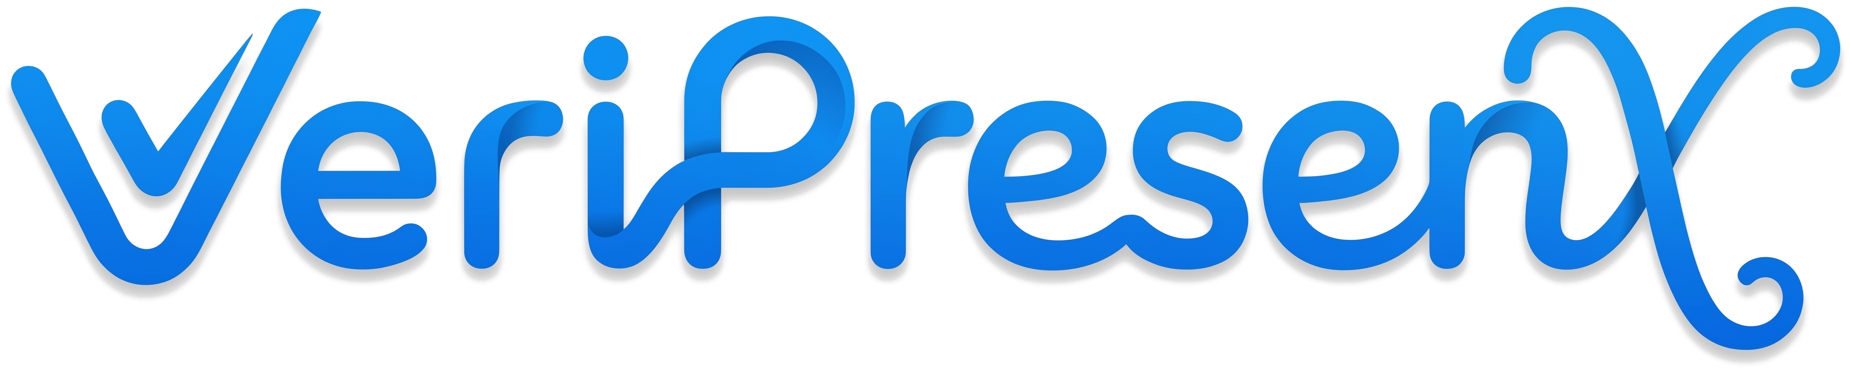
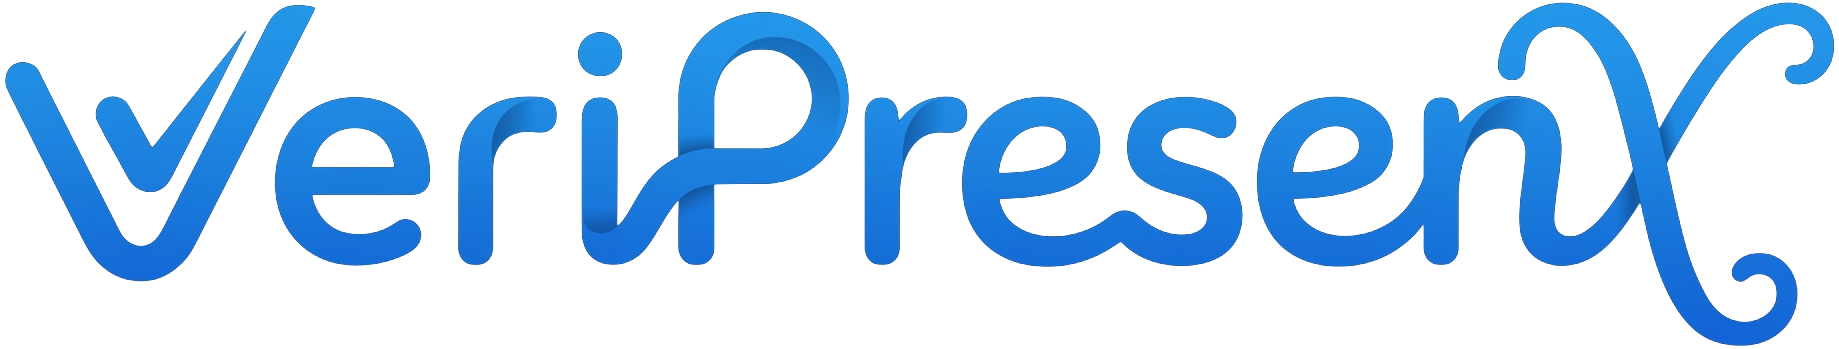
brand: wordmark-only navbar, premium breathing splash, defringed wordmark

diff --git a/style.css b/style.css
@@ -239,16 +239,17 @@ html { color-scheme: light; }
   letter-spacing: -0.5px;
 }
 
-.brand-logo {
-  height: 32px;
-  width: auto;
-  display: block;
-}
-
 .brand-wordmark {
   height: 26px;
   width: auto;
   display: block;
+  /* Tames any lingering 1px light fringe from the keyed PNG:
+     blend the bitmap edges into the page instead of showing a halo. */
+  mix-blend-mode: screen;
+}
+
+[data-theme="light"] .brand-wordmark {
+  mix-blend-mode: multiply;
 }
 
 .brand-text {
@@ -268,8 +269,10 @@ html { color-scheme: light; }
   flex-direction: column;
   align-items: center;
   justify-content: center;
-  gap: 24px;
+  gap: 22px;
   transition: opacity 0.6s ease, transform 0.6s ease;
+  overflow: hidden;
+  cursor: pointer;
 }
 
 #splashScreen.splash-fade-out {
@@ -278,16 +281,66 @@ html { color-scheme: light; }
   pointer-events: none;
 }
 
+/* Soft ambient glow behind the brand — fades in once, never loops hard. */
+.splash-glow {
+  position: absolute;
+  width: min(78vw, 460px);
+  aspect-ratio: 1;
+  border-radius: 50%;
+  background:
+    radial-gradient(circle, var(--accent-glow) 0%, var(--teal-glow) 38%, transparent 68%);
+  filter: blur(30px);
+  opacity: 0;
+  animation: splashGlowIn 1.6s 0.1s var(--ease-out-expo) forwards;
+  pointer-events: none;
+}
+
+/* Brand lockup: mark + wordmark rise together, then settle into a
+   barely-there premium "breathing" float (also runs under the hint). */
+.splash-brand {
+  position: relative;
+  display: flex;
+  flex-direction: column;
+  align-items: center;
+  gap: 20px;
+  animation:
+    splashBrandIn 1.1s var(--ease-out-expo) both,
+    splashBreathe 4.5s 1.3s ease-in-out infinite;
+  will-change: transform;
+}
+
 .splash-logo {
   width: 120px;
   height: auto;
-  animation: splashLogoIn 1.2s cubic-bezier(0.16, 1, 0.3, 1) forwards;
+  filter: drop-shadow(0 18px 40px var(--accent-glow));
+  animation: splashMarkSheen 1.1s var(--ease-out-expo) both;
 }
 
 .splash-wordmark {
   height: 44px;
   width: auto;
-  animation: splashTextIn 0.8s 0.4s cubic-bezier(0.16, 1, 0.3, 1) both;
+  mix-blend-mode: screen;
+}
+
+[data-theme="light"] .splash-wordmark {
+  mix-blend-mode: multiply;
+}
+
+/* Thin premium divider that draws itself under the wordmark. */
+.splash-rule {
+  width: min(52vw, 220px);
+  height: 1px;
+  background: var(--card-border);
+  overflow: hidden;
+}
+
+.splash-rule span {
+  display: block;
+  height: 100%;
+  width: 100%;
+  background: linear-gradient(90deg, transparent, var(--teal), var(--violet-2), transparent);
+  transform: scaleX(0);
+  animation: splashRuleDraw 1s 0.7s var(--ease-out-expo) forwards;
 }
 
 .splash-text {
@@ -299,7 +352,6 @@ html { color-scheme: light; }
   -webkit-background-clip: text;
   -webkit-text-fill-color: transparent;
   background-clip: text;
-  animation: splashTextIn 0.8s 0.4s cubic-bezier(0.16, 1, 0.3, 1) both;
 }
 
 .splash-hint {
@@ -310,19 +362,47 @@ html { color-scheme: light; }
   opacity: 0;
 }
 
-@keyframes splashLogoIn {
-  from { opacity: 0; transform: scale(0.7) translateY(20px); }
-  to   { opacity: 1; transform: scale(1) translateY(0); }
+@keyframes splashGlowIn {
+  from { opacity: 0; transform: scale(0.85); }
+  to   { opacity: 0.9; transform: scale(1); }
 }
 
-@keyframes splashTextIn {
-  from { opacity: 0; transform: translateY(14px); }
-  to   { opacity: 1; transform: translateY(0); }
+@keyframes splashBrandIn {
+  from { opacity: 0; transform: translateY(26px) scale(0.97); }
+  to   { opacity: 1; transform: translateY(0) scale(1); }
+}
+
+/* Subtle idle float: ±4px / ±0.6deg — noticeable, never seasick. */
+@keyframes splashBreathe {
+  0%, 100% { transform: translateY(0) rotate(0deg); }
+  50%      { transform: translateY(-4px) rotate(0.6deg); }
+}
+
+@keyframes splashMarkSheen {
+  from { opacity: 0; transform: scale(0.82); }
+  to   { opacity: 1; transform: scale(1); }
+}
+
+@keyframes splashRuleDraw {
+  from { transform: scaleX(0); }
+  to   { transform: scaleX(1); }
 }
 
 @keyframes splashHintPulse {
   0%, 100% { opacity: 0.5; }
   50%      { opacity: 1; }
+}
+
+@media (prefers-reduced-motion: reduce) {
+  .splash-glow,
+  .splash-brand,
+  .splash-logo,
+  .splash-rule span {
+    animation: none;
+  }
+  .splash-brand { opacity: 1; }
+  .splash-glow { opacity: 0.5; }
+  .splash-rule span { transform: scaleX(1); }
 }
 
 .theme-btn {
@@ -1303,8 +1383,17 @@ input:focus::placeholder {
     font-size: 1.25rem;
   }
 
-  .brand-logo {
-    height: 26px;
+  .brand-wordmark {
+    height: 22px;
+  }
+
+  .splash-logo {
+    width: 104px;
+  }
+
+  .splash-wordmark {
+    height: 34px;
+    max-width: 78vw;
   }
 
   .card {

diff --git a/index.html b/index.html
@@ -19,15 +19,18 @@
 
   <!-- SPLASH SCREEN -->
   <div id="splashScreen">
-    <img src="/brand/mark-256-cutout.png" alt="VeriPresenX Logo" class="splash-logo" />
-    <img src="/brand/veripresenx-wordmark.png" alt="VeriPresenX" class="splash-wordmark" />
+    <div class="splash-glow" aria-hidden="true"></div>
+    <div class="splash-brand">
+      <img src="/brand/mark-256-cutout.png" alt="VeriPresenX Logo" class="splash-logo" />
+      <img src="/brand/veripresenx-wordmark.png" alt="VeriPresenX" class="splash-wordmark" />
+    </div>
+    <div class="splash-rule" aria-hidden="true"><span></span></div>
     <span class="splash-hint">Click anywhere to continue...</span>
   </div>
 
   <!-- NAVBAR -->
   <header class="navbar">
     <div class="brand">
-      <img src="/brand/mark-64-cutout.png" alt="VeriPresenX Logo" class="brand-logo" />
       <img src="/brand/veripresenx-wordmark.png" alt="VeriPresenX" class="brand-wordmark" />
     </div>
 

diff --git a/sw.js b/sw.js
@@ -1,5 +1,5 @@
 // Bump this version string on EVERY deploy so the SW refreshes automatically
-const CACHE_NAME = "veripresenx-static-v28";
+const CACHE_NAME = "veripresenx-static-v29";
 const STATIC_ASSETS = [
   "/",
   "/index.html",

diff --git a/brand/README.md b/brand/README.md
@@ -6,9 +6,8 @@ Static brand assets for VeriPresenX (app icons, mark variations, and wordmark).
 
 | File | Size | Where it is used |
 | --- | --- | --- |
-| `veripresenx-wordmark.png` | 1850×370 | Navbar & Splash brand wordmark. |
-| `mark-64-cutout.png` | 64² | **Navbar** — `index.html` `.brand-logo`, displayed at 32 px, so 2× for retina. |
-| `mark-256-cutout.png` | 256² | **Splash screen** — `index.html` `.splash-logo`, displayed at 120 px, so 2× for retina. |
+| `veripresenx-wordmark.png` | 1839×349 | Navbar (wordmark only) & Splash brand wordmark. PNG is keyed from black so edges stay clean; CSS blends it (`screen` on dark / `multiply` on light) to hide any 1px fringe. |
+| `mark-256-cutout.png` | 256² | **Splash screen + app icons** — `index.html` `.splash-logo`, displayed at 120 px, so 2× for retina. |
 | `mark-64.png`, `mark-256.png` | 64², 256² | SOLID equivalents of the two above, kept so the navbar and splash can be flipped between variants with a one-line change. |
 | `veripresenx-mark-cutout-1024.png` | 1024² | Archival mark, whites punched out. Not shipped to browsers. |
 | `veripresenx-mark-1024.png` | 1024² | Archival mark, whites kept. Not shipped to browsers. |
